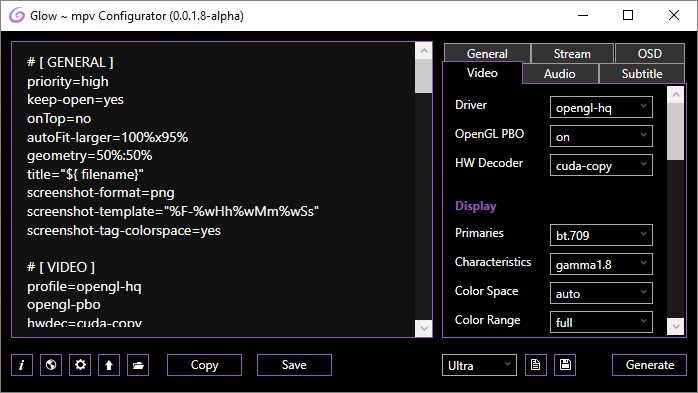
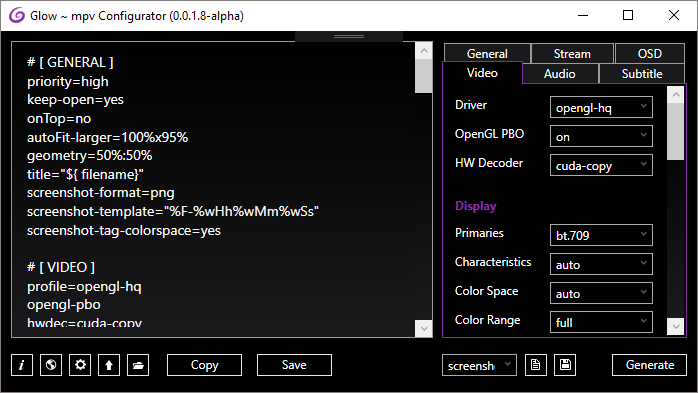
v0.0.1.8-alpha Update
Theme Update

diff --git a/source/Glow/Theme.xaml b/source/Glow/Theme.xaml
@@ -50,11 +50,15 @@
     </ControlTemplate>
 
     <!-- Main Window Style -->
+    <SolidColorBrush x:Key="MainWindow.Static.Background" Color="#000000"/>
+    <!--<LinearGradientBrush x:Key="MainWindow.Static.Background" EndPoint="0,1" StartPoint="0,0">
+        <GradientStop Color="#FF000000" Offset="0.0"/>
+        <GradientStop Color="#FF0c040c" Offset="1.0"/>
+    </LinearGradientBrush>-->
+    
     <Style x:Key="WindowStyle" TargetType="{x:Type Window}">
         <Setter Property="Foreground" Value="{DynamicResource {x:Static SystemColors.WindowTextBrushKey}}"/>
-        <Setter Property="Background" Value="{DynamicResource {x:Static SystemColors.WindowBrushKey}}"/>
-        <!--Background-->
-        <Setter Property="Background" Value="Black" />
+        <Setter Property="Background" Value="{DynamicResource MainWindow.Static.Background}" />
         <Setter Property="Template">
             <Setter.Value>
                 <ControlTemplate TargetType="{x:Type Window}">
@@ -80,12 +84,23 @@
     <!--/////////////////////////////////////
         Rich Text Box
         /////////////////////////////////////-->
-
-    <SolidColorBrush x:Key="RichTextBox.Static.Border" Color="#FF9259bd"/>
-    <SolidColorBrush x:Key="RichTextBox.MouseOver.Border" Color="#FFb478df"/>
+    
     <SolidColorBrush x:Key="RichTextBox.Static.Foreground" Color="#FFFFFFFF"/>
-    <SolidColorBrush x:Key="RichTextBox.Static.Background" Color="#FF111111"/>
-    <SolidColorBrush x:Key="RichTextBox.Focus.Border" Color="#FFb478df"/>
+    <!--<SolidColorBrush x:Key="RichTextBox.Static.Background" Color="#FF111111"/>-->
+    <LinearGradientBrush x:Key="RichTextBox.Static.Background" EndPoint="0,1" StartPoint="0,0">
+        <GradientStop Color="#FF000000" Offset="0.0"/>
+        <GradientStop Color="#FF1a1a1d" Offset="1.0"/>
+        <!--<GradientStop Color="#FF230721" Offset="1.0"/>-->
+    </LinearGradientBrush>
+
+    <SolidColorBrush x:Key="RichTextBox.Static.Border" Color="#FF9b9b9b"/>
+    <!--<LinearGradientBrush x:Key="RichTextBox.Static.Border" EndPoint="0,1" StartPoint="0,0">
+        <GradientStop Color="#FF9b9b9b" Offset="0.0"/>
+        <GradientStop Color="#FF19191d" Offset="1.0"/>
+    </LinearGradientBrush>-->
+    
+    <SolidColorBrush x:Key="RichTextBox.MouseOver.Border" Color="#FFe9e9e9"/>
+    <SolidColorBrush x:Key="RichTextBox.Focus.Border" Color="#FFe9e9e9"/>
     
     <Style x:Key="{x:Type TextBoxBase}" TargetType="{x:Type TextBoxBase}">
         <Setter Property="Background" Value="{DynamicResource RichTextBox.Static.Background}"/>
@@ -170,10 +185,15 @@
         Scrollbar
         /////////////////////////////////////-->
 
+    <LinearGradientBrush x:Key="Scrollbar.Static.Background" EndPoint="0,1" StartPoint="0,0">
+        <GradientStop Color="#FF000000" Offset="0.0"/>
+        <GradientStop Color="#FF1a1a1d" Offset="1.0"/>
+    </LinearGradientBrush>
+    
     <!-- Background -->
     <Style TargetType="{x:Type ScrollBar}">
-        <Setter Property="Background" Value="#FF191919"/>
-        <Setter Property="BorderBrush" Value="#FF191919"/>
+        <Setter Property="Background" Value="{DynamicResource Scrollbar.Static.Background}"/>
+        <Setter Property="BorderBrush" Value="{DynamicResource Scrollbar.Static.Background}"/>
     </Style>
 
     <!--<ControlTemplate x:Key="ScrollBarControlTemplate" TargetType="{x:Type ScrollBar}">
@@ -392,7 +412,14 @@
         /////////////////////////////////////-->
 
     <SolidColorBrush x:Key="TabItem.Selected.Background" Color="#000000"/>
-    <SolidColorBrush x:Key="TabItem.Selected.Border" Color="#FF9259bd"/>
+
+    <SolidColorBrush x:Key="TabItem.Top.Selected.Border" Color="#FF882cac"/>
+
+    <SolidColorBrush x:Key="TabItem.Selected.Border" Color="#FF882cac"/>
+    <!--<LinearGradientBrush x:Key="TabItem.Selected.Border" EndPoint="0,1" StartPoint="0,0">
+        <GradientStop Color="#FF882cac" Offset="0.0"/>
+        <GradientStop Color="#FF9b9b9b" Offset="1.0"/>
+    </LinearGradientBrush>-->
 
     <Style x:Key="TabControlStyle" TargetType="{x:Type TabControl}">
         <Setter Property="Padding" Value="2"/>
@@ -486,12 +513,12 @@
 
     <!-- Unselected -->
     <SolidColorBrush x:Key="TabItem.Static.Foreground" Color="#FFFFFFFF"/>
-    <SolidColorBrush x:Key="TabItem.Static.Background" Color="#FF333333"/>
+    <SolidColorBrush x:Key="TabItem.Static.Background" Color="#FF1a1a1d"/>
     <SolidColorBrush x:Key="TabItem.Static.Border" Color="#FF9B9B9B"/>
 
     <SolidColorBrush x:Key="TabItem.MouseOver.Background" Color="#FF111111"/>
-    <SolidColorBrush x:Key="TabItem.MouseOver.Border" Color="#FF9259bd"/>
-    
+    <SolidColorBrush x:Key="TabItem.MouseOver.Border" Color="#FF882cac"/>
+
     <SolidColorBrush x:Key="TabItem.Disabled.Background" Color="#F0F0F0"/>
     <SolidColorBrush x:Key="TabItem.Disabled.Border" Color="#D9D9D9"/>
 
@@ -517,7 +544,7 @@
                                 Background="{TemplateBinding Background}" 
                                 Margin="0">
                             <Border x:Name="innerBorder"
-                                    BorderBrush="{StaticResource TabItem.Selected.Border}" 
+                                    BorderBrush="{StaticResource TabItem.Top.Selected.Border}" 
                                     BorderThickness="1,1,1,0" 
                                     Background="{StaticResource TabItem.Selected.Background2}"
                                     Margin="-1" 
@@ -738,7 +765,7 @@
 
     <!-- Label Title -->
     <Style x:Key="LabelTitleStyle" TargetType="{x:Type Label}">
-        <Setter Property="Foreground" Value="#FF9259bd"/>
+        <Setter Property="Foreground" Value="#FF882cac"/>
         <Setter Property="Background" Value="Transparent"/>
         <Setter Property="Padding" Value="5"/>
         <Setter Property="HorizontalContentAlignment" Value="Left"/>
@@ -853,16 +880,16 @@
     <SolidColorBrush x:Key="ComboBox.Static.Editable.Button.Border" Color="Transparent"/>
     
     <!-- MouseOver -->
-    <SolidColorBrush x:Key="ComboBox.MouseOver.Glyph" Color="#FF9259bd"/>
+    <SolidColorBrush x:Key="ComboBox.MouseOver.Glyph" Color="#FF882cac"/>
     <SolidColorBrush x:Key="ComboBox.MouseOver.Background" Color="#FF111111"/>
-    <SolidColorBrush x:Key="ComboBox.MouseOver.Border" Color="#FF9259bd"/>
+    <SolidColorBrush x:Key="ComboBox.MouseOver.Border" Color="#FF882cac"/>
     <SolidColorBrush x:Key="ComboBox.MouseOver.Editable.Background" Color="#FFFFFFFF"/>
     <SolidColorBrush x:Key="ComboBox.MouseOver.Editable.Border" Color="#FF7EB4EA"/>
     <LinearGradientBrush x:Key="ComboBox.MouseOver.Editable.Button.Background" EndPoint="0,1" StartPoint="0,0">
         <GradientStop Color="#FFEBF4FC" Offset="0.0"/>
         <GradientStop Color="#FFDCECFC" Offset="1.0"/>
     </LinearGradientBrush>
-    <SolidColorBrush x:Key="ComboBox.MouseOver.Editable.Button.Border" Color="#FF9259bd"/>
+    <SolidColorBrush x:Key="ComboBox.MouseOver.Editable.Button.Border" Color="#FF882cac"/>
     <SolidColorBrush x:Key="ComboBox.Pressed.Glyph" Color="#FF000000"/>
     <LinearGradientBrush x:Key="ComboBox.Pressed.Background" EndPoint="0,1" StartPoint="0,0">
         <GradientStop Color="#FFDAECFC" Offset="0.0"/>
@@ -883,7 +910,7 @@
     <SolidColorBrush x:Key="ComboBox.Disabled.Glyph" Color="#FFBFBFBF"/>
     <SolidColorBrush x:Key="ComboBox.Disabled.Foreground" Color="#FF999999"/>
     <SolidColorBrush x:Key="ComboBox.Disabled.Background" Color="#FF000000"/>
-    <SolidColorBrush x:Key="ComboBox.Disabled.Border" Color="#FF333333"/>
+    <SolidColorBrush x:Key="ComboBox.Disabled.Border" Color="#FF1a1a1d"/>
     <SolidColorBrush x:Key="ComboBox.Disabled.Editable.Background" Color="#FFFFFFFF"/>
     <SolidColorBrush x:Key="ComboBox.Disabled.Editable.Border" Color="#FFBFBFBF"/>
     <SolidColorBrush x:Key="ComboBox.Disabled.Editable.Button.Background" Color="Transparent"/>
@@ -1147,8 +1174,8 @@
                     <Condition Property="IsKeyboardFocused" Value="False"/>
                 </MultiTrigger.Conditions>
                 <Setter Property="Foreground" Value="#FFb478df"/>
-                <Setter Property="Background" TargetName="Bd" Value="#FF151515"/>
-                <Setter Property="BorderBrush" TargetName="Bd" Value="#A8151515"/>
+                <Setter Property="Background" TargetName="Bd" Value="#FF070707"/>
+                <Setter Property="BorderBrush" TargetName="Bd" Value="#A8070707"/>
             </MultiTrigger>
             <!-- Background Selected -->
             <MultiTrigger>
@@ -1157,8 +1184,8 @@
                     <Condition Property="IsMouseOver" Value="False"/>
                     <Condition Property="IsKeyboardFocused" Value="True"/>
                 </MultiTrigger.Conditions>
-                <Setter Property="Background" TargetName="Bd" Value="#FF333333"/>
-                <Setter Property="BorderBrush" TargetName="Bd" Value="#FF333333"/>
+                <Setter Property="Background" TargetName="Bd" Value="#FF1a1a1d"/>
+                <Setter Property="BorderBrush" TargetName="Bd" Value="#FF1a1a1d"/>
             </MultiTrigger>
             <!-- Background Mouse Over Selected -->
             <MultiTrigger>
@@ -1176,8 +1203,8 @@
                     <Condition Property="IsMouseOver" Value="False"/>
                     <Condition Property="IsKeyboardFocused" Value="False"/>
                 </MultiTrigger.Conditions>
-                <Setter Property="Background" TargetName="Bd" Value="#FF333333"/>
-                <Setter Property="BorderBrush" TargetName="Bd" Value="#FF333333"/>
+                <Setter Property="Background" TargetName="Bd" Value="#FF1a1a1d"/>
+                <Setter Property="BorderBrush" TargetName="Bd" Value="#FF1a1a1d"/>
             </MultiTrigger>
             <!-- Background Not Selected Keyboard Focused -->
             <MultiTrigger>
@@ -1187,7 +1214,7 @@
                     <Condition Property="IsKeyboardFocused" Value="True"/>
                 </MultiTrigger.Conditions>
                 <Setter Property="Foreground" Value="#FFb478df"/>
-                <Setter Property="BorderBrush" TargetName="Bd" Value="#FF151515"/>
+                <Setter Property="BorderBrush" TargetName="Bd" Value="#FF070707"/>
             </MultiTrigger>
             <!-- Background Mouse Over Not Selected Keyboard Focused -->
             <MultiTrigger>
@@ -1197,8 +1224,8 @@
                     <Condition Property="IsKeyboardFocused" Value="True"/>
                 </MultiTrigger.Conditions>
                 <Setter Property="Foreground" Value="#FFb478df"/>
-                <Setter Property="Background" TargetName="Bd" Value="#FF151515"/>
-                <Setter Property="BorderBrush" TargetName="Bd" Value="#FF151515"/>
+                <Setter Property="Background" TargetName="Bd" Value="#FF070707"/>
+                <Setter Property="BorderBrush" TargetName="Bd" Value="#FF070707"/>
             </MultiTrigger>
         </ControlTemplate.Triggers>
     </ControlTemplate>
@@ -1208,11 +1235,11 @@
     <Style x:Key="ComboBoxItemStyle" TargetType="{x:Type ComboBoxItem}">
         <Setter Property="Template" Value="{StaticResource ComboBoxCustom.Item.ControlTemplate}"/>
         <Setter Property="Foreground" Value="#FFFFFFFF" />
-        <Setter Property="Background" Value="#FF333333" />
-        <Setter Property="BorderBrush" Value="#FF333333" />
+        <Setter Property="Background" Value="#FF1a1a1d" />
+        <Setter Property="BorderBrush" Value="#FF1a1a1d" />
         <Style.Triggers>
             <Trigger Property="IsSelected" Value="true">
-                <Setter Property="Background" Value="#FF333333" />
+                <Setter Property="Background" Value="#FF1a1a1d" />
             </Trigger>
         </Style.Triggers>
     </Style>
@@ -1231,7 +1258,7 @@
     <SolidColorBrush x:Key="SliderThumb.Static.Border" Color="#FFB9B9B9"/>
     <!-- Mouse Over -->
     <SolidColorBrush x:Key="SliderThumb.MouseOver.Background" Color="#FF111111"/>
-    <SolidColorBrush x:Key="SliderThumb.MouseOver.Border" Color="#FF9259bd"/>
+    <SolidColorBrush x:Key="SliderThumb.MouseOver.Border" Color="#FF882cac"/>
     <!-- Pressed -->
     <SolidColorBrush x:Key="SliderThumb.Pressed.Background" Color="#FF000000"/>
     <SolidColorBrush x:Key="SliderThumb.Pressed.Border" Color="#FFb478df"/>
@@ -1291,8 +1318,8 @@
             </Trigger>
         </ControlTemplate.Triggers>
     </ControlTemplate>
-    <SolidColorBrush x:Key="SliderThumb.Track.Border" Color="#FF333333"/>
-    <SolidColorBrush x:Key="SliderThumb.Track.Background" Color="#FF333333"/>
+    <SolidColorBrush x:Key="SliderThumb.Track.Border" Color="#FF222124"/>
+    <SolidColorBrush x:Key="SliderThumb.Track.Background" Color="#FF222124"/>
     <Style x:Key="RepeatButtonTransparent" TargetType="{x:Type RepeatButton}">
         <Setter Property="OverridesDefaultStyle" Value="true"/>
         <Setter Property="Background" Value="Transparent"/>
@@ -1563,9 +1590,9 @@
         /////////////////////////////////////-->
     
     <SolidColorBrush x:Key="TextBox.Static.Foreground" Color="#FFFFFFFF"/>
-    <SolidColorBrush x:Key="TextBox.Static.Background" Color="#FF191919"/>
+    <SolidColorBrush x:Key="TextBox.Static.Background" Color="#FF1a1a1d"/>
     <SolidColorBrush x:Key="TextBox.Static.Border" Color="#FFABAdB3"/>
-    <SolidColorBrush x:Key="TextBox.MouseOver.Border" Color="#FF9259bd"/>
+    <SolidColorBrush x:Key="TextBox.MouseOver.Border" Color="#FF882cac"/>
     <SolidColorBrush x:Key="TextBox.Focus.Border" Color="#FFb478df"/>
     
     <Style x:Key="TextBoxStyle" TargetType="{x:Type TextBox}">
@@ -1618,11 +1645,12 @@
 
     <SolidColorBrush x:Key="Button.Static.Foreground" Color="#FFFFFFFF"/>
     <SolidColorBrush x:Key="Button.Static.Background" Color="#FF000000"/>
-    <SolidColorBrush x:Key="Button.Static.Border" Color="#FF9259bd"/>
+    <!--<SolidColorBrush x:Key="Button.Static.Border" Color="#FF882cac"/>-->
+    <SolidColorBrush x:Key="Button.Static.Border" Color="#FFe9e9e9"/>
     <SolidColorBrush x:Key="Button.MouseOver.Background" Color="#FF111111"/>
-    <SolidColorBrush x:Key="Button.MouseOver.Border" Color="#FFFFFFFF"/>
-    <SolidColorBrush x:Key="Button.Pressed.Background" Color="#FFb478df"/>
-    <SolidColorBrush x:Key="Button.Pressed.Border" Color="#FF9259bd"/>
+    <SolidColorBrush x:Key="Button.MouseOver.Border" Color="#FF882cac"/>
+    <SolidColorBrush x:Key="Button.Pressed.Background" Color="#FF882cac"/>
+    <SolidColorBrush x:Key="Button.Pressed.Border" Color="#FF882cac"/>
     <SolidColorBrush x:Key="Button.Disabled.Background" Color="#FFF4F4F4"/>
     <SolidColorBrush x:Key="Button.Disabled.Border" Color="#FFADB2B5"/>
     <SolidColorBrush x:Key="Button.Disabled.Foreground" Color="#FF838383"/>
@@ -1682,13 +1710,14 @@
 
     <SolidColorBrush x:Key="ButtonSmall.Static.Foreground" Color="#FFFFFFFF"/>
     <SolidColorBrush x:Key="ButtonSmall.Static.Background" Color="#FF000000"/>
-    <SolidColorBrush x:Key="ButtonSmall.Static.Border" Color="#FF9259bd"/>
+    <!--<SolidColorBrush x:Key="ButtonSmall.Static.Border" Color="#FF882cac"/>-->
+    <SolidColorBrush x:Key="ButtonSmall.Static.Border" Color="#FFe9e9e9"/>
     
     <SolidColorBrush x:Key="ButtonSmall.MouseOver.Background" Color="#FF111111"/>
-    <SolidColorBrush x:Key="ButtonSmall.MouseOver.Border" Color="#FFACACAC"/>
-    
-    <SolidColorBrush x:Key="ButtonSmall.Pressed.Background" Color="#FFb478df"/>
-    <SolidColorBrush x:Key="ButtonSmall.Pressed.Border" Color="#FF9259bd"/>
+    <SolidColorBrush x:Key="ButtonSmall.MouseOver.Border" Color="#FF882cac"/>
+
+    <SolidColorBrush x:Key="ButtonSmall.Pressed.Background" Color="#FF882cac"/>
+    <SolidColorBrush x:Key="ButtonSmall.Pressed.Border" Color="#FF882cac"/>
     
     <SolidColorBrush x:Key="ButtonSmall.Disabled.Background" Color="#FFF4F4F4"/>
     <SolidColorBrush x:Key="ButtonSmall.Disabled.Border" Color="#FFADB2B5"/>
@@ -1748,14 +1777,14 @@
         /////////////////////////////////////-->
 
     <SolidColorBrush x:Key="ButtonLang.Static.Foreground" Color="#FFFFFFFF"/>
-    <SolidColorBrush x:Key="ButtonLang.Static.Background" Color="#FF333333"/>
-    <SolidColorBrush x:Key="ButtonLang.Static.Border" Color="#FF333333"/>
+    <SolidColorBrush x:Key="ButtonLang.Static.Background" Color="#FF302f32"/>
+    <SolidColorBrush x:Key="ButtonLang.Static.Border" Color="#FF1a1a1d"/>
     
     <SolidColorBrush x:Key="ButtonLang.MouseOver.Background" Color="#FF111111"/>
-    <SolidColorBrush x:Key="ButtonLang.MouseOver.Border" Color="#FF9259bd"/>
+    <SolidColorBrush x:Key="ButtonLang.MouseOver.Border" Color="#FF882cac"/>
 
     <SolidColorBrush x:Key="ButtonLang.Pressed.Background" Color="#FFb478df"/>
-    <SolidColorBrush x:Key="ButtonLang.Pressed.Border" Color="#FF9259bd"/>
+    <SolidColorBrush x:Key="ButtonLang.Pressed.Border" Color="#FF882cac"/>
     
     <SolidColorBrush x:Key="ButtonLang.Disabled.Background" Color="#FFF4F4F4"/>
     <SolidColorBrush x:Key="ButtonLang.Disabled.Border" Color="#FFADB2B5"/>
